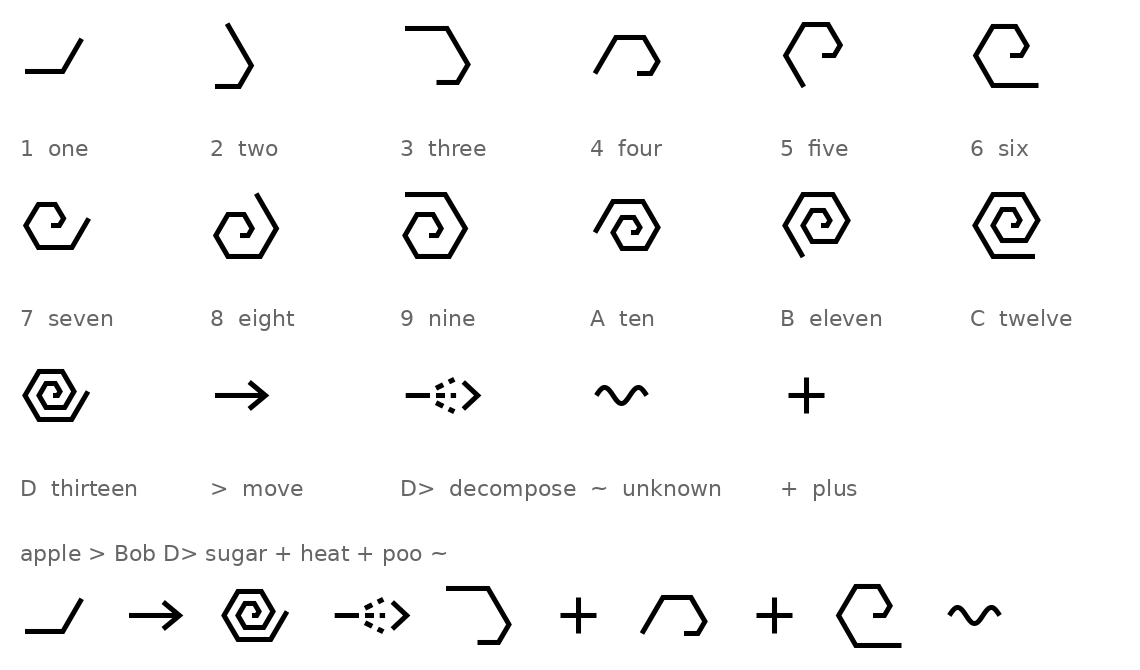
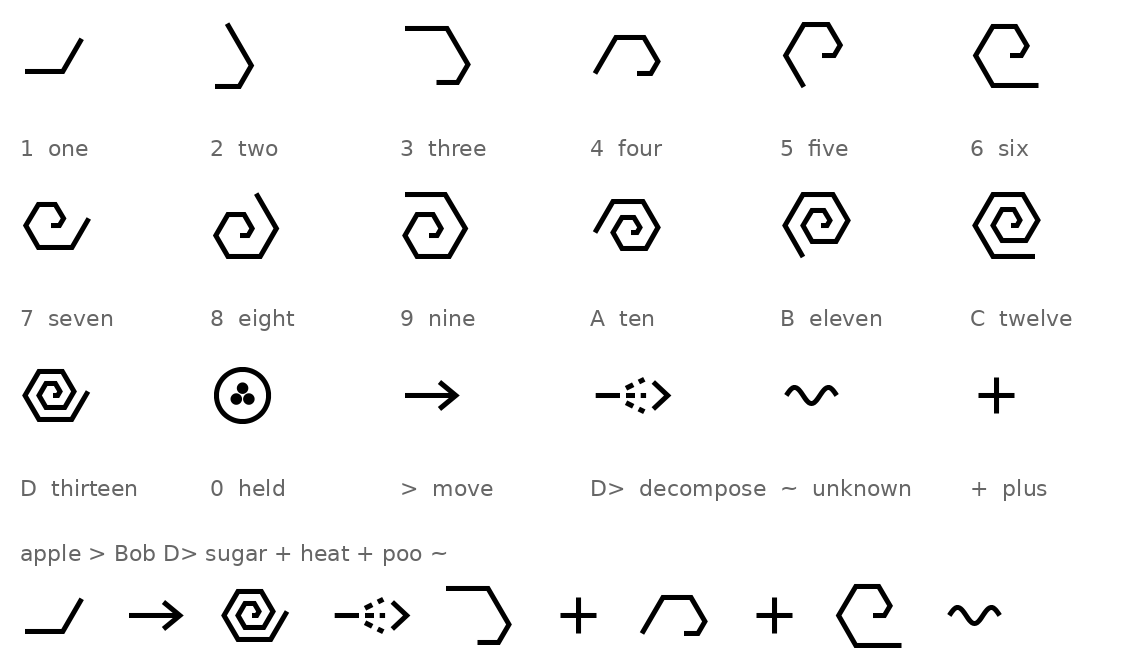
D Angle font: our 0 = a circle holding 3 dots (unknown things left in it)

diff --git a/font/build.py b/font/build.py
@@ -49,13 +49,16 @@ def wave(c):
                     c["y"] + c["amp"] * math.sin(t * c["waves"] * 2 * math.pi)))
     return pts
 
-def draw(polys, adv, pad=60):
+def circle(cx, cy, r, n=72):
+    return [(cx + r * math.cos(2 * math.pi * i / n), cy + r * math.sin(2 * math.pi * i / n)) for i in range(n)]
+
+def draw(polys, adv, pad=60, holes=()):
     pen = TTGlyphPen(None)
-    for poly in polys:
+    for k, poly in enumerate(polys):
         poly = [(round(x + pad), round(y)) for x, y in poly]
-        # clockwise for TrueType
+        # clockwise for TrueType; holes the other way
         area = sum(a[0]*b[1]-b[0]*a[1] for a, b in zip(poly, poly[1:] + poly[:1]))
-        if area > 0: poly = poly[::-1]
+        if (area > 0) != (k in holes): poly = poly[::-1]
         pen.moveTo(poly[0])
         for p in poly[1:]: pen.lineTo(p)
         pen.closePath()
@@ -72,9 +75,16 @@ for g in SRC["glyphs"]:
     elif "curve" in g:
         polys, adv, pad = [outline(wave(g["curve"]), W)], g["width"], 0
     else:
-        polys = [outline(s, W) for s in g["strokes"] if len(s) > 1]
+        polys = [outline(s, W) for s in g.get("strokes", []) if len(s) > 1]
         adv, pad = g["width"], 0
-    glyphs[name] = draw(polys, adv, pad); metrics[name] = (adv, 0)
+    holes = set()
+    for c in g.get("circles", []):           # {"x","y","r","ring": true} ring = outline, else a filled dot
+        if c.get("ring"):
+            polys.append(circle(c["x"], c["y"], c["r"] + W / 2))
+            holes.add(len(polys)); polys.append(circle(c["x"], c["y"], c["r"] - W / 2))
+        else:
+            polys.append(circle(c["x"], c["y"], c["r"]))
+    glyphs[name] = draw(polys, adv, pad, holes); metrics[name] = (adv, 0)
     for ch in [g.get("char"), g.get("also")]:
         if ch: cmap[ord(ch)] = name
     if "liga" in g: ligas.append((g["liga"], name))

diff --git a/README.md b/README.md
@@ -40,6 +40,8 @@ The shapes for each digit are still to be drawn.
   Operators are lines of [x,y] points; add a new operator by adding an entry.
   `"liga": "D>"` makes typed keys join into one symbol.
 - `python3 font/build.py` builds `font/d-angle.ttf`; `python3 font/preview.py` draws `font/preview.png`.
+- Our 0 (the 0 key): a circle holding 3 dots, the unknown things left in it, like 3 ping pong balls.
+  Never nothing: it shows what was called zero is still full (Mike, 18 Nov 2026).
 - Use the font only on D maths: in it, A B C D are the digits 10 to 13.
 
 ## Dc: C with D rules, straight to assembly (lang/)
